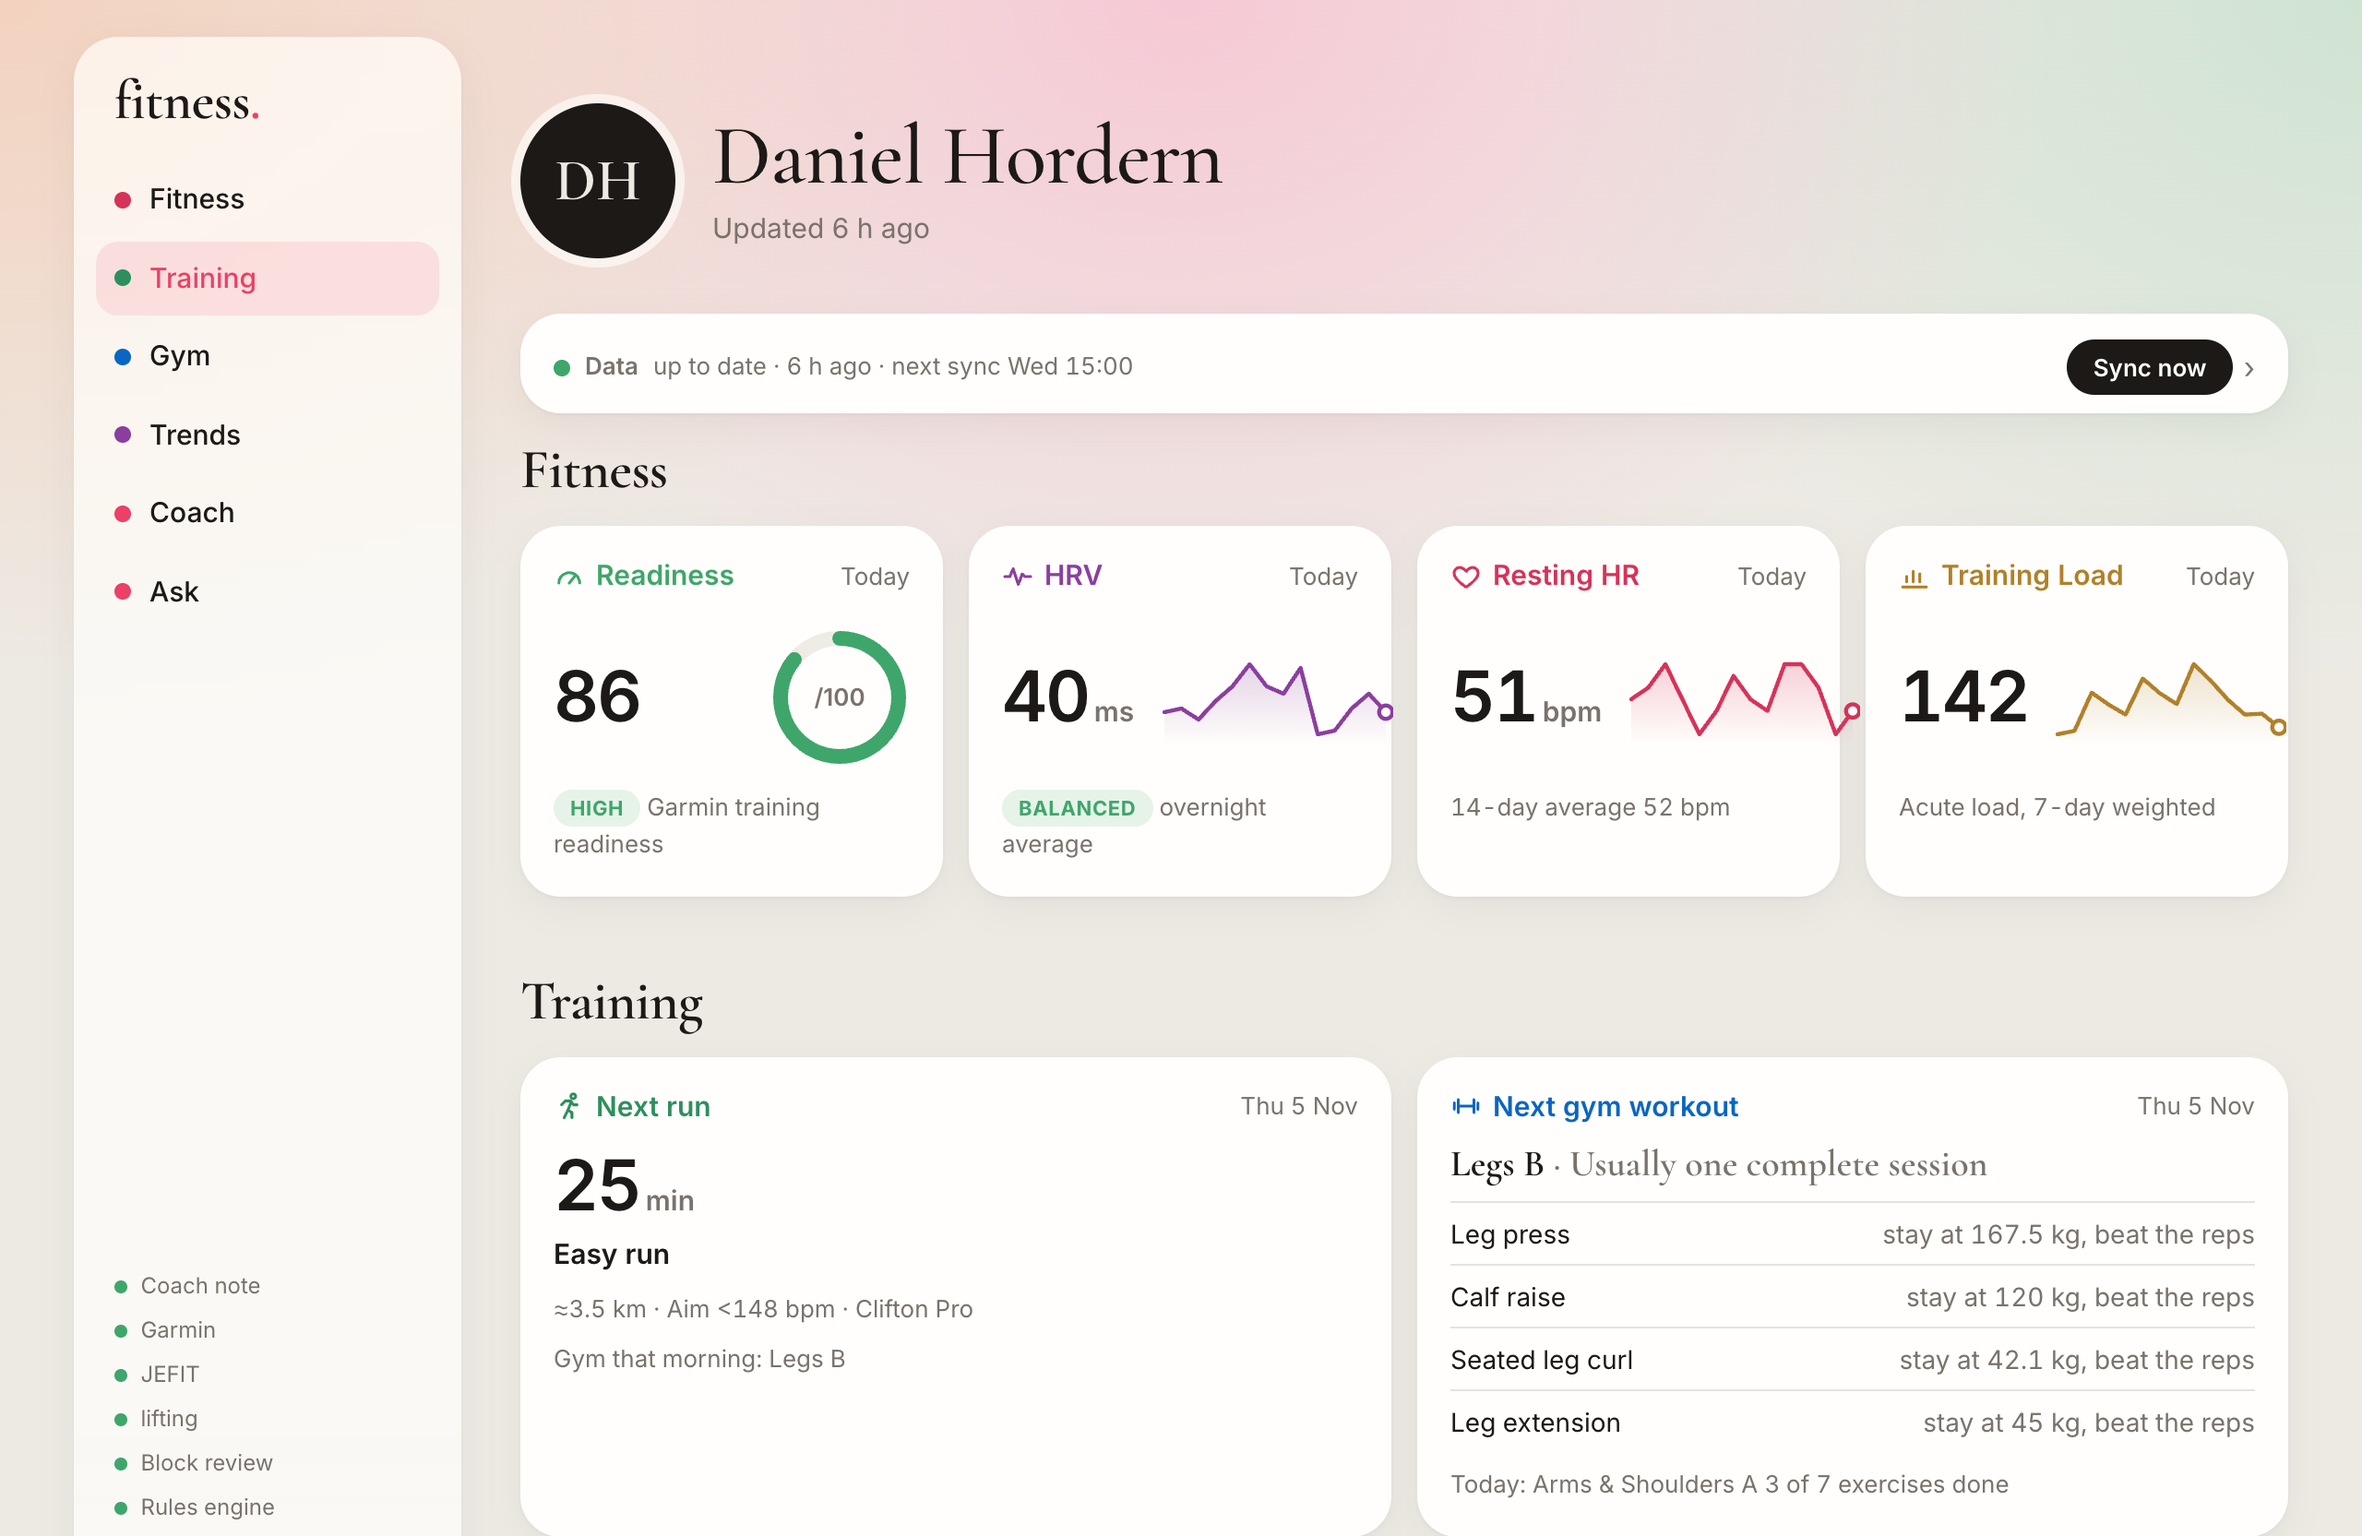
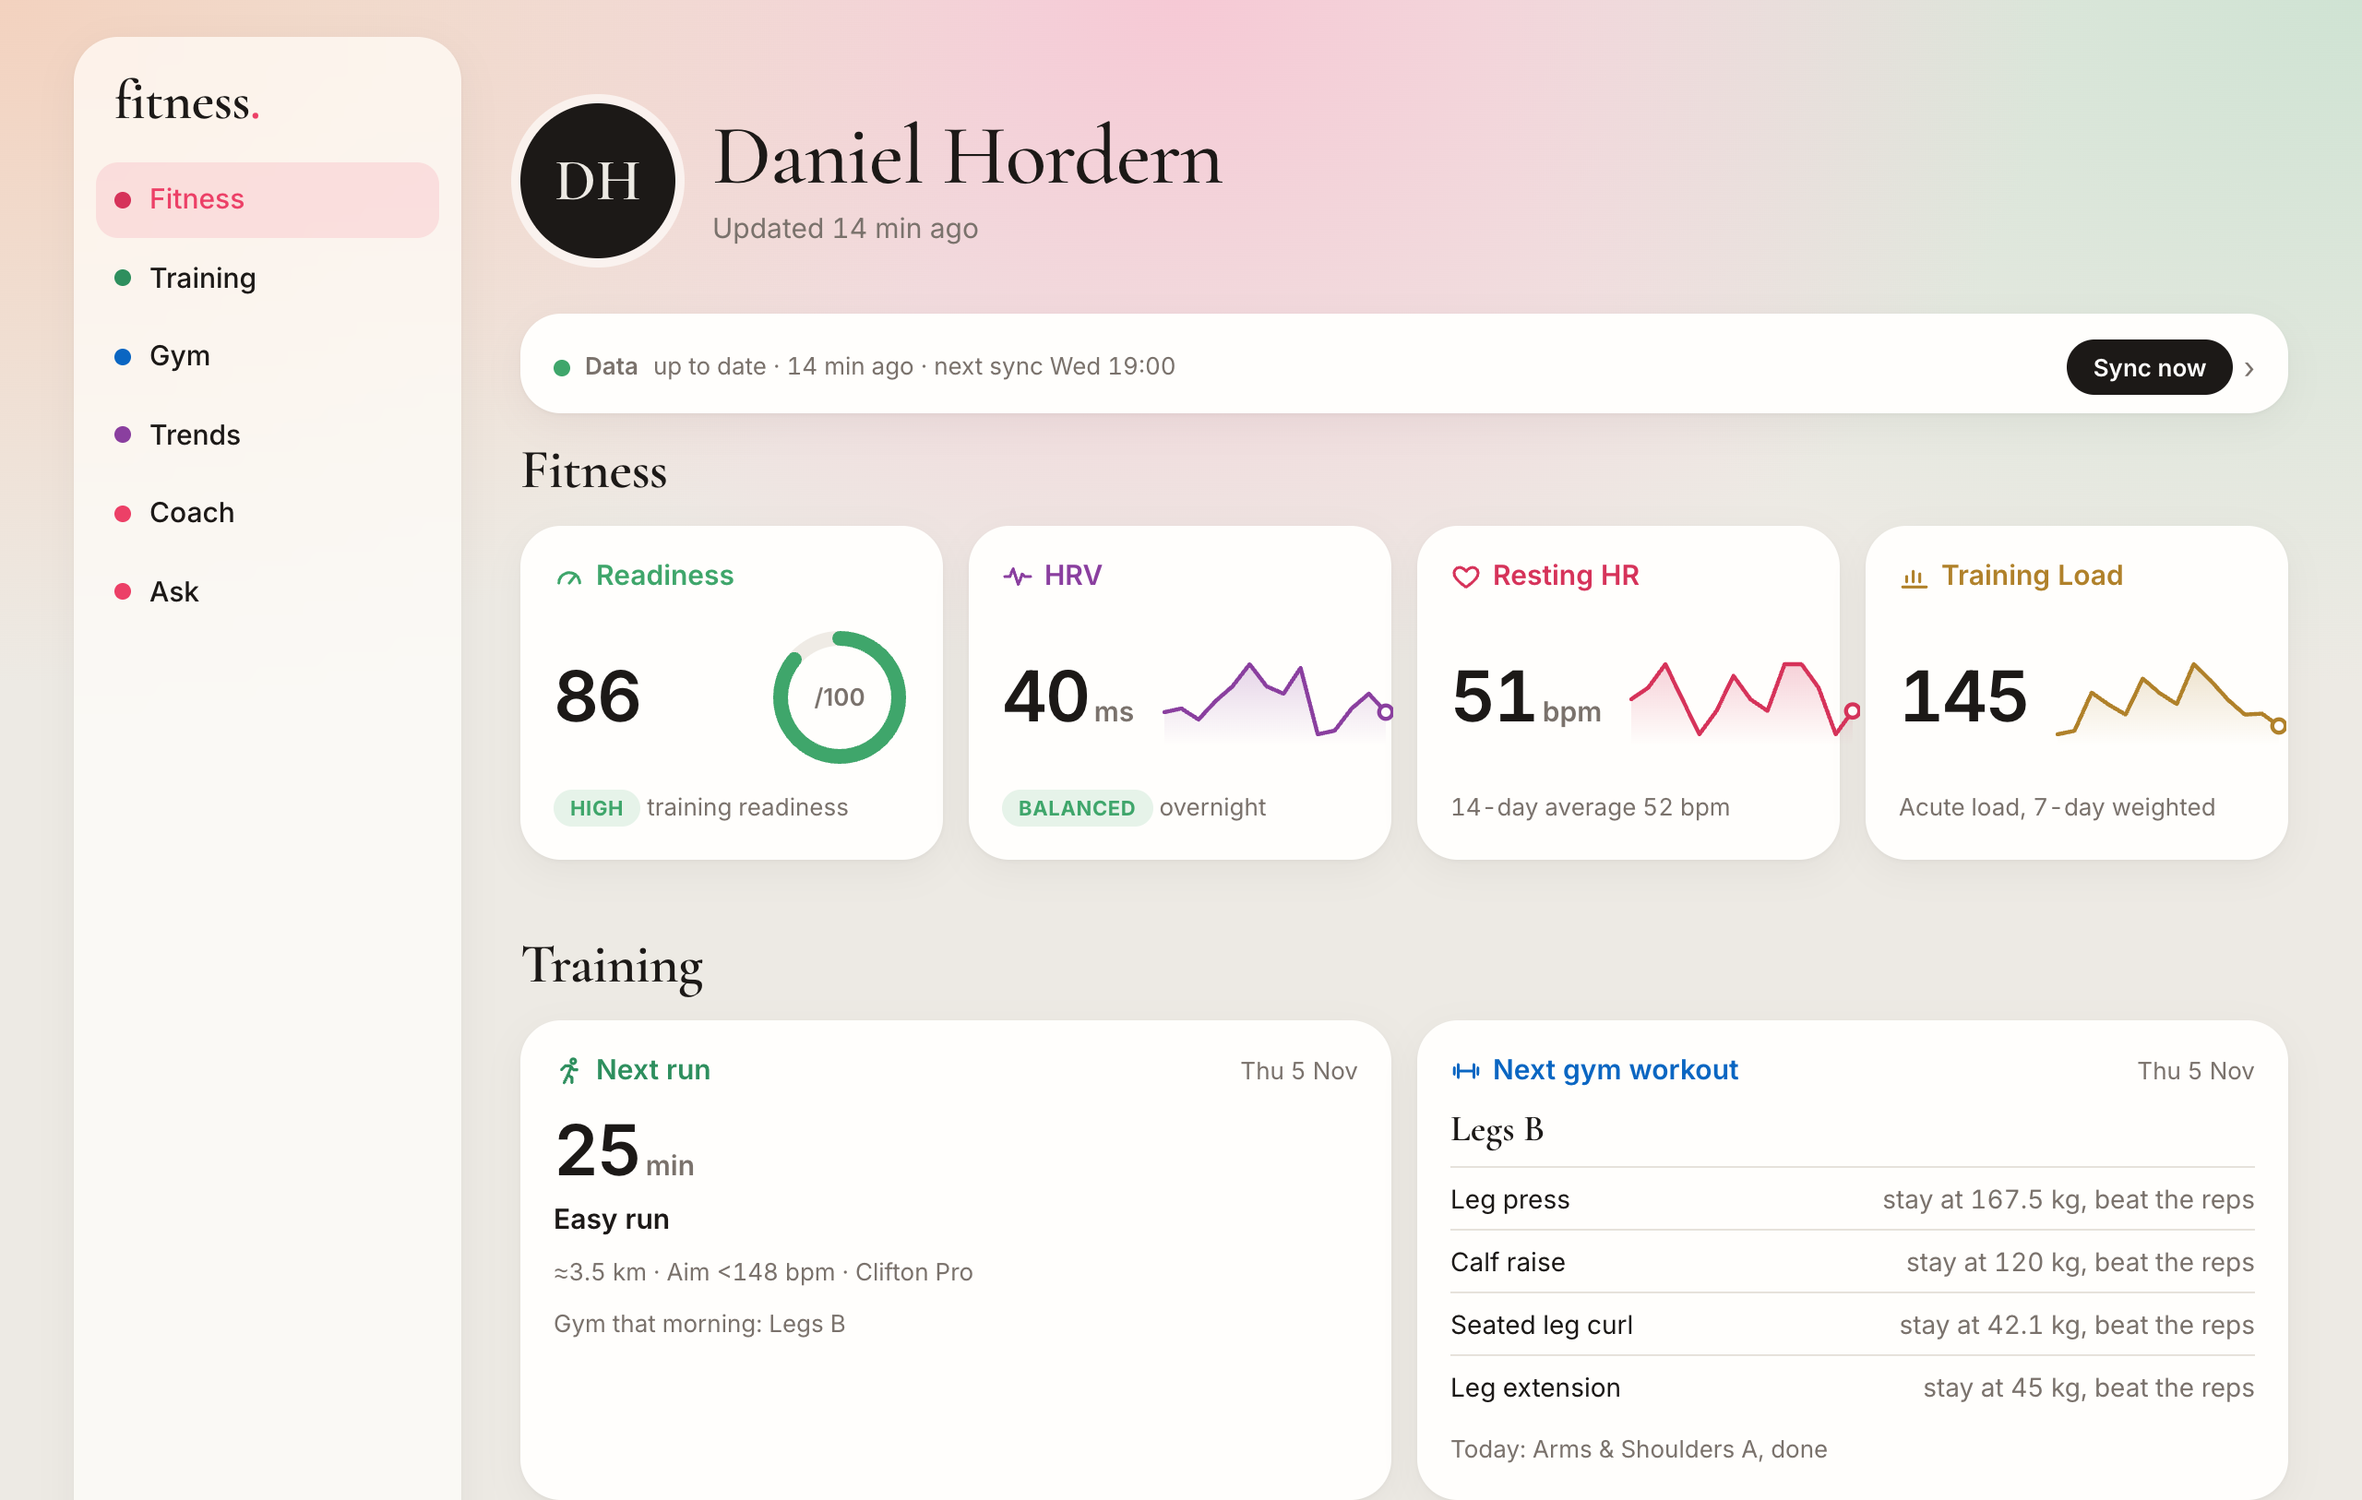
Polish: correct section highlight at the top, no repeated 'Today', shorter captions, smaller ring and trimmed data line on phones; no sidebar source list; refreshed screenshots

diff --git a/public/app.js b/public/app.js
@@ -106,7 +106,7 @@ const chip = (word) => (word ? `<span class="chip" style="--c: var(${statusColor
 
 function metricCard({ title, icon, color, date, value, unit, viz, caption }) {
   return `<div class="card">
-    <div class="card-head">${label(title, icon, color)}<span class="when">${date ? relDay(date) : ""}</span></div>
+    <div class="card-head">${label(title, icon, color)}<span class="when">${date && date.slice(0, 10) !== todayIso() ? relDay(date) : ""}</span></div>
     <div class="metric">
       <div><span class="big">${value ?? "—"}</span>${value != null && unit ? `<span class="unit">${unit}</span>` : ""}</div>
       ${viz ?? ""}
@@ -138,12 +138,12 @@ function renderHealth({ health, weights }) {
     metricCard({
       title: "Readiness", icon: "gauge", color: "--ready", date: ready?.date,
       value: ready?.readiness_score, viz: ready && ring(ready.readiness_score, 100, "--ready"),
-      caption: ready ? `${chip(ready.readiness_level)} Garmin training readiness` : waiting,
+      caption: ready ? `${chip(ready.readiness_level)}<span class="hide-narrow"> training readiness</span>` : waiting,
     }),
     metricCard({
       title: "HRV", icon: "wave", color: "--hrv", date: hrv?.date,
       value: hrv?.hrv_last_night, unit: "ms", viz: sparkline(health.map((h) => h.hrv_last_night), "--hrv"),
-      caption: hrv ? `${chip(hrv.hrv_status)} overnight average` : waiting,
+      caption: hrv ? `${chip(hrv.hrv_status)} overnight` : waiting,
     }),
     metricCard({
       title: "Resting HR", icon: "heart", color: "--heart", date: rhr?.date,
@@ -153,7 +153,7 @@ function renderHealth({ health, weights }) {
     metricCard({
       title: "Training Load", icon: "load", color: "--load", date: load?.date,
       value: load?.acute_load, viz: sparkline(health.map((h) => h.acute_load), "--load"),
-      caption: load ? "Acute load, 7-day weighted" : waiting,
+      caption: load ? 'Acute load<span class="hide-narrow">, 7-day weighted</span>' : waiting,
     }),
   ].join("");
   $("trendCards").innerHTML = [
@@ -370,12 +370,12 @@ function renderNextGym(lifting) {
   const date = new Date(monday); date.setDate(monday.getDate() + idx(ps.weekday) - 1 + (upcoming ? 0 : 7));
   const iso = date.toLocaleDateString("en-CA");
   card.innerHTML = `${head(relDay(iso))}
-    <div class="block-title">${esc(ps.name)}${ps.variation ? ` <span class="muted">· ${esc(ps.variation)}</span>` : ""}</div>
+    <div class="block-title">${esc(ps.name)}</div>
     ${ps.parts.flatMap((part) => part.exercises).map((e) => {
       const last = lastTimeFor(sessions, ps.name, e.name);
       return `<div class="next-ex"><span>${esc(e.name)}</span><span class="muted">${esc(last ? last.next.text : prescription(e))}</span></div>`;
     }).join("")}
-    ${todays ? `<div class="caption">Today: ${esc(todays.session)} ${todays.state === "done" ? "done" : `${todays.exercises_done} of ${todays.exercises_total} exercises done`}</div>` : ""}`;
+    ${todays ? `<div class="caption">Today: ${esc(todays.session)}, ${todays.state === "done" ? "done" : `${todays.exercises_done} of ${todays.exercises_total} exercises done`}</div>` : ""}`;
 }
 
 // Coach → Lifting plan: the block, key lifts, this week vs the template, and each
@@ -732,7 +732,6 @@ const STALE_HOURS = { garmin: 8, withings: 26, jefit: 26 };
 function renderStatus(status) {
   const latest = status.sources.reduce((a, s) => (!a || s.last_ok > a ? s.last_ok : a), null);
   $("lastSync").textContent = latest ? `Updated ${relTime(latest)}` : "Not synced yet";
-  $("syncList").innerHTML = status.sources.map((s) => `<span><span class="dot" style="--c: var(${s.last_ok_flag ? "--ok" : "--bad"})"></span> ${esc(SOURCE_LABELS[s.source] ?? s.source)}</span>`).join("");
 
   let problems = 0;
   const rows = Object.keys(SOURCE_LABELS).map((key) => {
@@ -753,7 +752,7 @@ function renderStatus(status) {
     <summary class="card-head status-line">
       <span class="status-row"><span class="dot" style="--c: var(${problems ? "--warn" : "--ok"})"></span>
         <span class="status-name">Data</span>
-        <span class="muted">${problems ? `${problems} source${problems > 1 ? "s" : ""} need${problems > 1 ? "" : "s"} attention` : `up to date${latest ? ` · ${relTime(latest)}` : ""}`} · next sync ${status.next_sync ? clock(status.next_sync) : "—"}</span></span>
+        <span class="muted">${problems ? `${problems} source${problems > 1 ? "s" : ""} need${problems > 1 ? "" : "s"} attention` : `up to date${latest ? ` · ${relTime(latest)}` : ""}`}<span class="hide-narrow"> · next sync ${status.next_sync ? clock(status.next_sync) : "—"}</span></span></span>
       <span><button class="btn" id="syncNow" ${status.syncing ? "disabled" : ""}>${status.syncing ? "Syncing…" : "Sync now"}</button><span class="chev">›</span></span>
     </summary>
     <div class="collapsible-body">
@@ -1107,12 +1106,16 @@ function setupAsk() {
 // Highlight the sidebar link for the section currently on screen.
 function trackSections() {
   const links = [...document.querySelectorAll("#nav a")];
+  // At the top of the page the first section is current, whatever else is in view.
+  const atTop = () => { if (scrollY < 80) links.forEach((a, i) => a.classList.toggle("active", i === 0)); };
   const observer = new IntersectionObserver((entries) => {
     for (const e of entries) {
       if (e.isIntersecting) links.forEach((a) => a.classList.toggle("active", a.getAttribute("href") === `#${e.target.id}`));
     }
+    atTop();
   }, { rootMargin: "-30% 0px -60% 0px" });
   document.querySelectorAll("main section").forEach((s) => observer.observe(s));
+  addEventListener("scroll", atTop, { passive: true });
 }
 
 async function main() {

diff --git a/public/style.css b/public/style.css
@@ -67,8 +67,6 @@ a { color: inherit; }
 .sidebar a:hover { background: color-mix(in srgb, var(--text) 5%, transparent); }
 .sidebar a.active { background: color-mix(in srgb, var(--accent) 12%, transparent); color: var(--accent); }
 .dot { width: 9px; height: 9px; border-radius: 50%; background: var(--c); flex: none; }
-.sidebar-foot { margin-top: auto; padding: 10px; font-size: 12px; color: var(--muted); display: flex; flex-direction: column; gap: 6px; }
-.sidebar-foot .dot { display: inline-block; width: 7px; height: 7px; margin-right: 4px; }
 .sync-bad { color: var(--bad); }
 
 main { min-width: 0; padding-top: 36px; }
@@ -283,7 +281,7 @@ details p { font-size: 13px; color: var(--muted); margin: 6px 0 0; }
 @media (max-width: 900px) {
   .layout { grid-template-columns: minmax(0, 1fr); gap: 0; padding: 12px 16px; }
   .sidebar { position: sticky; top: 8px; z-index: 5; height: auto; padding: 6px; border-radius: 18px; min-width: 0; } /* min-width lets the pill bar scroll instead of widening the page */
-  .brand, .sidebar-foot { display: none; }
+  .brand { display: none; }
   .sidebar nav { flex-direction: row; overflow-x: auto; scrollbar-width: none; }
   .sidebar a { white-space: nowrap; padding: 7px 12px; font-size: 14px; }
   main { padding-top: 22px; }
@@ -323,6 +321,8 @@ details p { font-size: 13px; color: var(--muted); margin: 6px 0 0; }
   .cards-4 .metric { flex-direction: column; align-items: flex-start; gap: 8px; min-height: 0; }
   .cards-4 .when { display: none; }
   .cards-4 .caption { font-size: 12px; }
+  .cards-4 svg.viz { height: 52px; width: auto; } /* rings shrink to the sparklines' height */
+  .hide-narrow { display: none; }
 }
 .status-line .status-name { min-width: 0; flex: none; }
 

diff --git a/public/index.html b/public/index.html
@@ -24,7 +24,6 @@
       <a href="#coach"><span class="dot" style="--c: var(--coach)"></span>Coach</a>
       <a href="#ask"><span class="dot" style="--c: var(--coach)"></span>Ask</a>
     </nav>
-    <div class="sidebar-foot" id="syncList"></div>
   </aside>
 
   <main>
